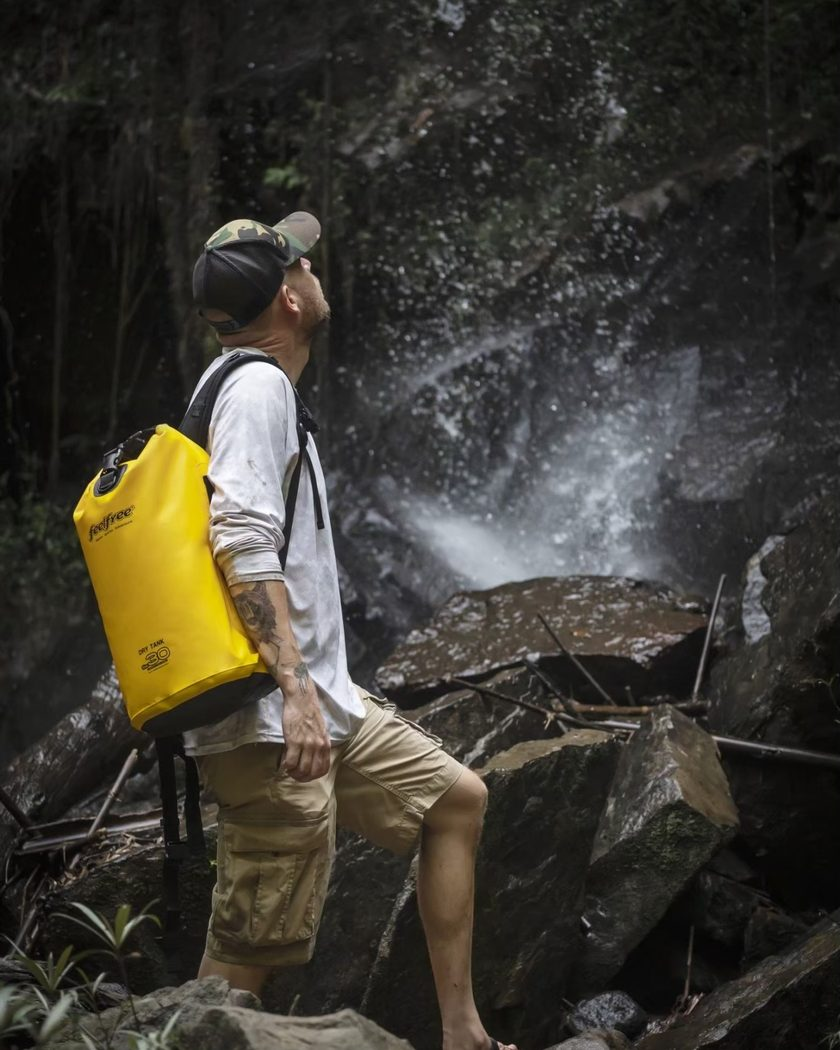
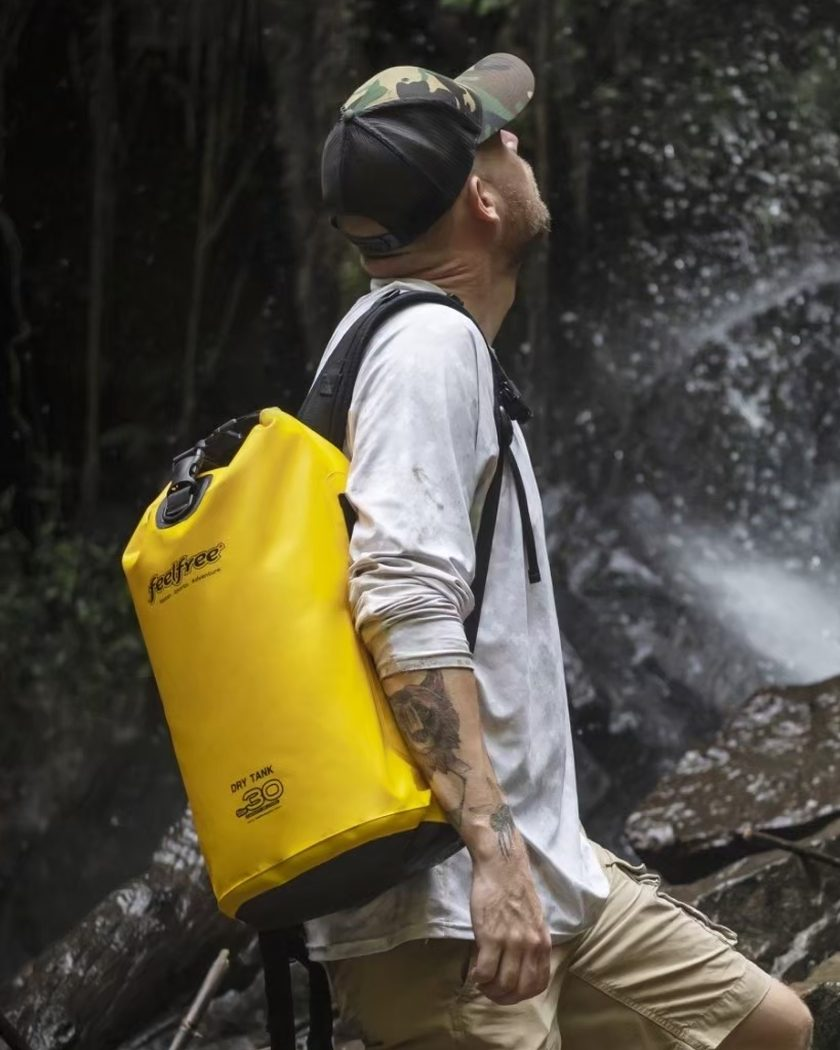
ครอป hero ใหม่ ให้กระเป๋าเด่นขึ้น
ของเดิมกระเป๋ากินพื้นที่แค่ 21 เปอร์เซ็นต์ของกรอบ ที่เหลือเป็นโขดหิน
ครอปเข้ามาให้เหลือ 36 เปอร์เซ็นต์ อ่านชื่อรุ่นบนตัวกระเป๋าออก
ยังเห็นคนเต็มตัวและน้ำตกด้านหลังเหมือนเดิม ใส่ v=2 ท้าย URL กันแคชเก่า

diff --git a/index.html b/index.html
@@ -466,7 +466,7 @@ footer .legal{grid-column:1/-1; border-top:1px solid rgba(255,255,255,.12); padd
         </div>
       </div>
       <figure class="hero-fig" style="margin:0">
-        <img class="hero-main" src="images/hero-drytank30.jpg" width="840" height="1050" alt="DRY TANK 30 เป้กันน้ำม้วนปากสีเหลือง ผู้ชายสะพายยืนหน้าน้ำตก" fetchpriority="high" decoding="async">
+        <img class="hero-main" src="images/hero-drytank30.jpg?v=2" width="840" height="1050" alt="DRY TANK 30 เป้กันน้ำม้วนปากสีเหลือง ผู้ชายสะพายยืนหน้าน้ำตก" fetchpriority="high" decoding="async">
         <img class="hero-inset" src="images/hero-15l.jpg" width="420" height="420" alt="FEELFREE ซองขวดน้ำและถุงกันน้ำสีครีมพิมพ์ความจุ 1.5 ลิตรบนตัว" decoding="async">
         <figcaption class="hero-tag">สกรีนโลโก้ลงบนตัวงาน</figcaption>
       </figure>
